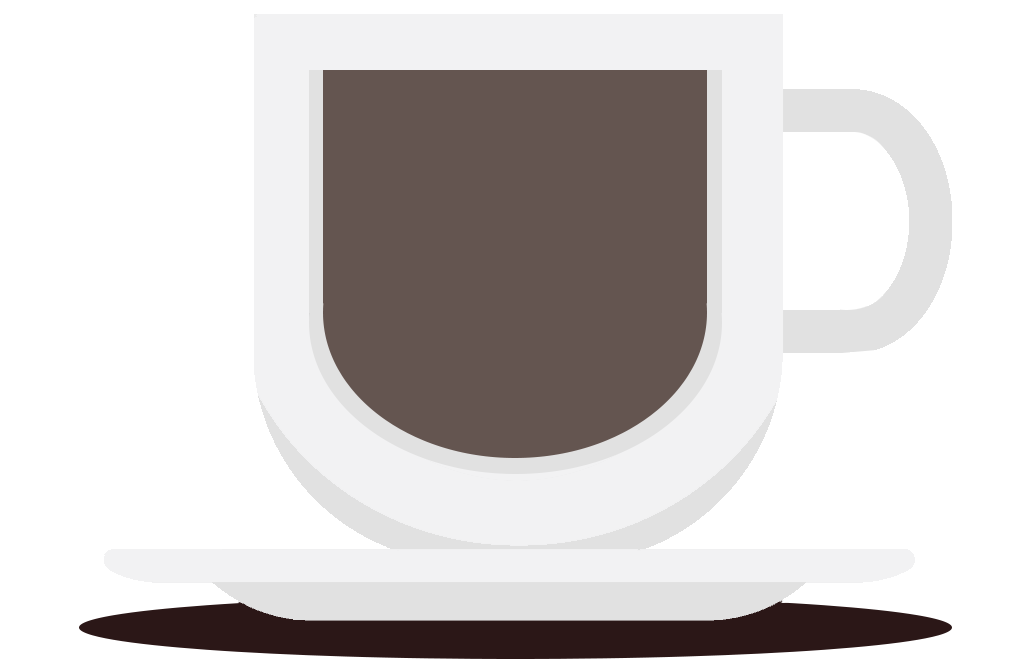
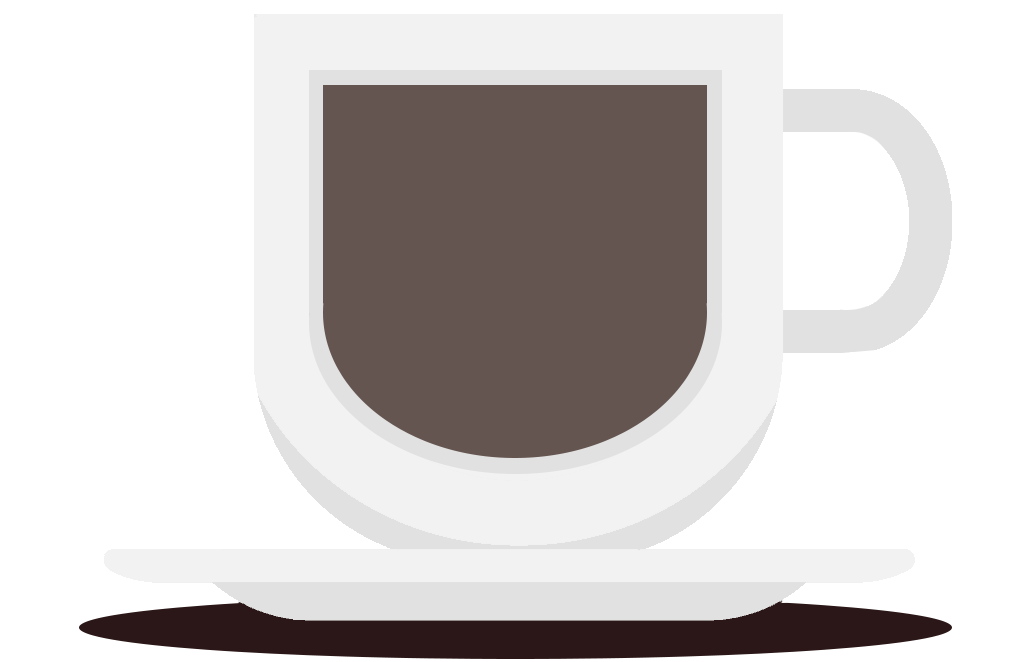
ai versus logic progress

Changed region(s): [[0.3119, 0.0906, 0.6862, 0.1511]]

diff --git a/cr-client/src/components/VersusAI.vue b/cr-client/src/components/VersusAI.vue
@@ -1,5 +1,5 @@
 <template>
-  <div class="game-pieces">
+  <div v-on="tracking ? {keydown:trackInput} : {}" tabindex="0" class="game-pieces">
     
     <div class="player-container"> 
       <cup :state="p1Cup"></cup>
@@ -12,19 +12,30 @@
             <div class="prompt-question">
               {{ prompt }}
             </div>
-            <div class="prompt-options">
-                <app-button type="game-button" :key="index" v-for="(option,index) in promptOptions" :text="option"></app-button>
+            <div  v-if="promptOptions" class="prompt-options">
+              <app-button 
+                type="game-button" 
+                :key="index" 
+                v-for="(option,index) in promptOptions" 
+                :text="option"
+                @clicked="processClick"
+              >
+              </app-button>
             </div>
         </div>
       </div>
 
       <div class="text-body"> 
-        <span :key="index" v-for="(word,index) in apiWords" class="text-word"> 
-            <letter :key="index" v-for="(letter, index) in word.split('')" :letter="letter"></letter>
+        <span :key="wordIndex" v-for="(word,wordIndex) in apiWords" class="text-word"> 
+          <letter 
+            :key="wordIndex + '_' + letterIndex" 
+            v-for="(letter, letterIndex) in word.split('')" 
+            :letter="letter"
+            :state="getLetterState(wordIndex,letterIndex)"
+          >
+          </letter>
         </span>
       </div>
-
-      
     </div>
 
   </div>
@@ -46,6 +57,8 @@ export default {
   data() {
     return {
       prompt: "Select AI Difficulty",
+      difficulty: "",
+      tracking: false, 
       player1: "",
       player2: "",
       apiText: "",
@@ -53,7 +66,6 @@ export default {
       p2Text: "",
       p1Time: 0,
       p2Time: 0,
-      // player1: 
     }
   },
   computed: {
@@ -67,10 +79,10 @@ export default {
       return apiWords; 
     },
     p1Speed () {
-      return this.p1Text ? this.p1Text.split(" ").length/this.p1Time * 60 : 0;
+      return this.p1Text ? Math.round(this.p1Text.split(" ").length/this.p1Time * 60) : 0;
     },
     p2Speed () {
-      return this.p2Text ? this.p2Text.split(" ").length/this.p2Time * 60 : 0;
+      return this.p2Text ? Math.round(this.p2Text.split(" ").length/this.p2Time * 60) : 0;
     },
     p1Completion () {
       return this.p1Text ? this.p1Text.length/this.apiText.length : 0;
@@ -115,23 +127,96 @@ export default {
     },
     promptOptions () {
       return {
-        "Select AI Difficulty": ["Easy","Medium","Hard"],
-        "play again": ["Yes","No"]
+        "Select AI Difficulty": ["easy","medium","hard"],
+        "play again": ["yes","no"]
       }[this.prompt]
     }
   },
   methods: {
-    async getIpsum () {
+    async getIpsum() {
       const hipsterQuery = "https://hipsum.co/api/?type=hipster-centric&sentences=3";
       const hipsterResponse = await this.$axios.get(hipsterQuery);
       const hipsterText = hipsterResponse.data[0];
       this.apiText = hipsterText;
-    }
+    },
+    startGame() {
+      // for (let i = 4; i > 0; i--) {
+      //   setTimeout(()=> this.prompt = `Start Typing In ${i}`, 1000 * [3,2,1,0][i-1])
+      // }
+      // setTimeout(()=> {
+      //   this.prompt = "";
+      //   this.tracking = true;
+      //   setInterval( ()=> {
+      //     if(this.p1Completion < 100) this.p1Time += 1;
+      //     if(this.p2Completion < 100) this.p2Time += 1;
+      //   }, 1000);
+      // }, 4000);
+      this.prompt = "";
+        this.tracking = true;
+        setInterval( ()=> {
+          if(this.p1Completion < 100) this.p1Time += 1;
+          if(this.p2Completion < 100) this.p2Time += 1;
+        }, 1000);
+    },
+    trackInput() {
+      if(this.userIs === "player1") {
+        return null; 
+      } else if (this.userIs === "player2") {
+        return null;
+      }
+      // console.log("tracking")
+    },
+    processClick(event) {
+      if(["easy","medium","hard"].indexOf(event)!== -1) {
+        this.setDifficulty(event)
+      } else if (["yes","no"].indexOf(event)!== -1) {
+        return null
+      }
+    },
+    setDifficulty(level) {
+      this.difficulty = {
+        easy: 70,
+        medium: 75,
+        hard: 80
+      }[level];
+      this.startGame();
+    },
+    getLetterState (wordIndex, letterIndex) {
+      //default
+      let state = "active"
+      //get all words of client
+      const splitText = this.userIs === "player1" ? this.p1Text.split(" ") : this.p2Text.split(" ");
+      //add spaces to match api words
+      const words = []; 
+      for(let i = 0; i < splitText.length; i++) {
+        if(i !== splitText.length - 1) splitText[i] += " ";
+        words.push(splitText[i]);
+      }
+      //find client's last word and letter indexes
+      const lastWordIndex = words.length - 1; 
+      const lastLetterIndex = words[lastWordIndex].length -1;
+      //if last word of client text is fully spelled
+      if(words[lastWordIndex] === this.apiWords[lastWordIndex]) {
+        //the first letter of the next word is current
+        if(wordIndex === lastWordIndex + 1 && letterIndex === 0) state = "current";
+        //and all letters in words before the next word are innactive
+        if(wordIndex <= lastWordIndex) state = "inactive";
+      //otherwise if the last word is not fully spelled
+      } else if(words[lastWordIndex] !== this.apiWords[lastWordIndex]) {
+        //the first unexisting letter of the current word is current
+        if(wordIndex === lastWordIndex && letterIndex === lastLetterIndex + 1) state = "current";
+        //and all letters in the current word before the current letter are inactive;
+        if(wordIndex === lastWordIndex && letterIndex < lastLetterIndex + 1) state = "inactive";
+        //as well as all letters in words before the current word
+        if(wordIndex < lastWordIndex) state = "inactive";
+      }
+      return state;
+    },
   },
   mounted() {
     this.getIpsum(); 
+    //AI Version
     this.player1 = this.$store.state.id;  
-    // console.log("id", this.$store.state.id)
   }
 };
 </script>

diff --git a/cr-client/src/components/Letter.vue b/cr-client/src/components/Letter.vue
@@ -1,5 +1,5 @@
 <template>
-  <span class="letter-container" >
+  <span class="letter-container" :style="style">
     {{letter}}
   </span>
 </template>
@@ -8,8 +8,16 @@
 
 export default {
   name: "letter",
-  props: ["state","letter"]
-  
+  props: ["state","letter"],
+  computed: {
+    style() {
+        return {
+            active: {},
+            inactive: {opacity: '.5'},
+            current: {backgroundColor: 'rgb(0,165,255)'}
+        }[this.state]
+    }
+  }
 };
 </script>
 <style scoped lang="scss">
@@ -18,7 +26,6 @@ export default {
         flex-direction: column;
         justify-content: center; 
         font-family: $fontB; 
-        color: $dark-blue; 
         -webkit-text-stroke: $dark-blue 1px;
         font-size: 28px; 
         padding: 0 3px; 

diff --git a/cr-client/src/components/Button.vue b/cr-client/src/components/Button.vue
@@ -1,5 +1,5 @@
 <template>
-  <div class="button" :class="[type]"  @click="$emit('clicked');">
+  <div class="button" :class="[type]"  @click="$emit('clicked', text);">
         <div class="button-text">{{ text }}</div>
         <div class="button-pointer">&#9664;</div>
   </div>

diff --git a/cr-client/src/styles/_variables.scss b/cr-client/src/styles/_variables.scss
@@ -18,6 +18,6 @@ $fontB: 'Courier New';
 $dark-blue: rgb(20,35,40);
 $red: rgb(200,0,60);
 $white: rgb(245,245,245);
-$coffee: rgb(100,85,80);
+$coffee: rgb(103,84,80);
 $brown: rgb(43,23,23);
 $blue: rgb(0,165,255);

diff --git a/cr-client/src/views/Game.vue b/cr-client/src/views/Game.vue
@@ -40,7 +40,6 @@
         },
         mounted () {
           this.setActiveView();
-          console.log(this.$store.state.id !== "")
         }
     }
 </script>
